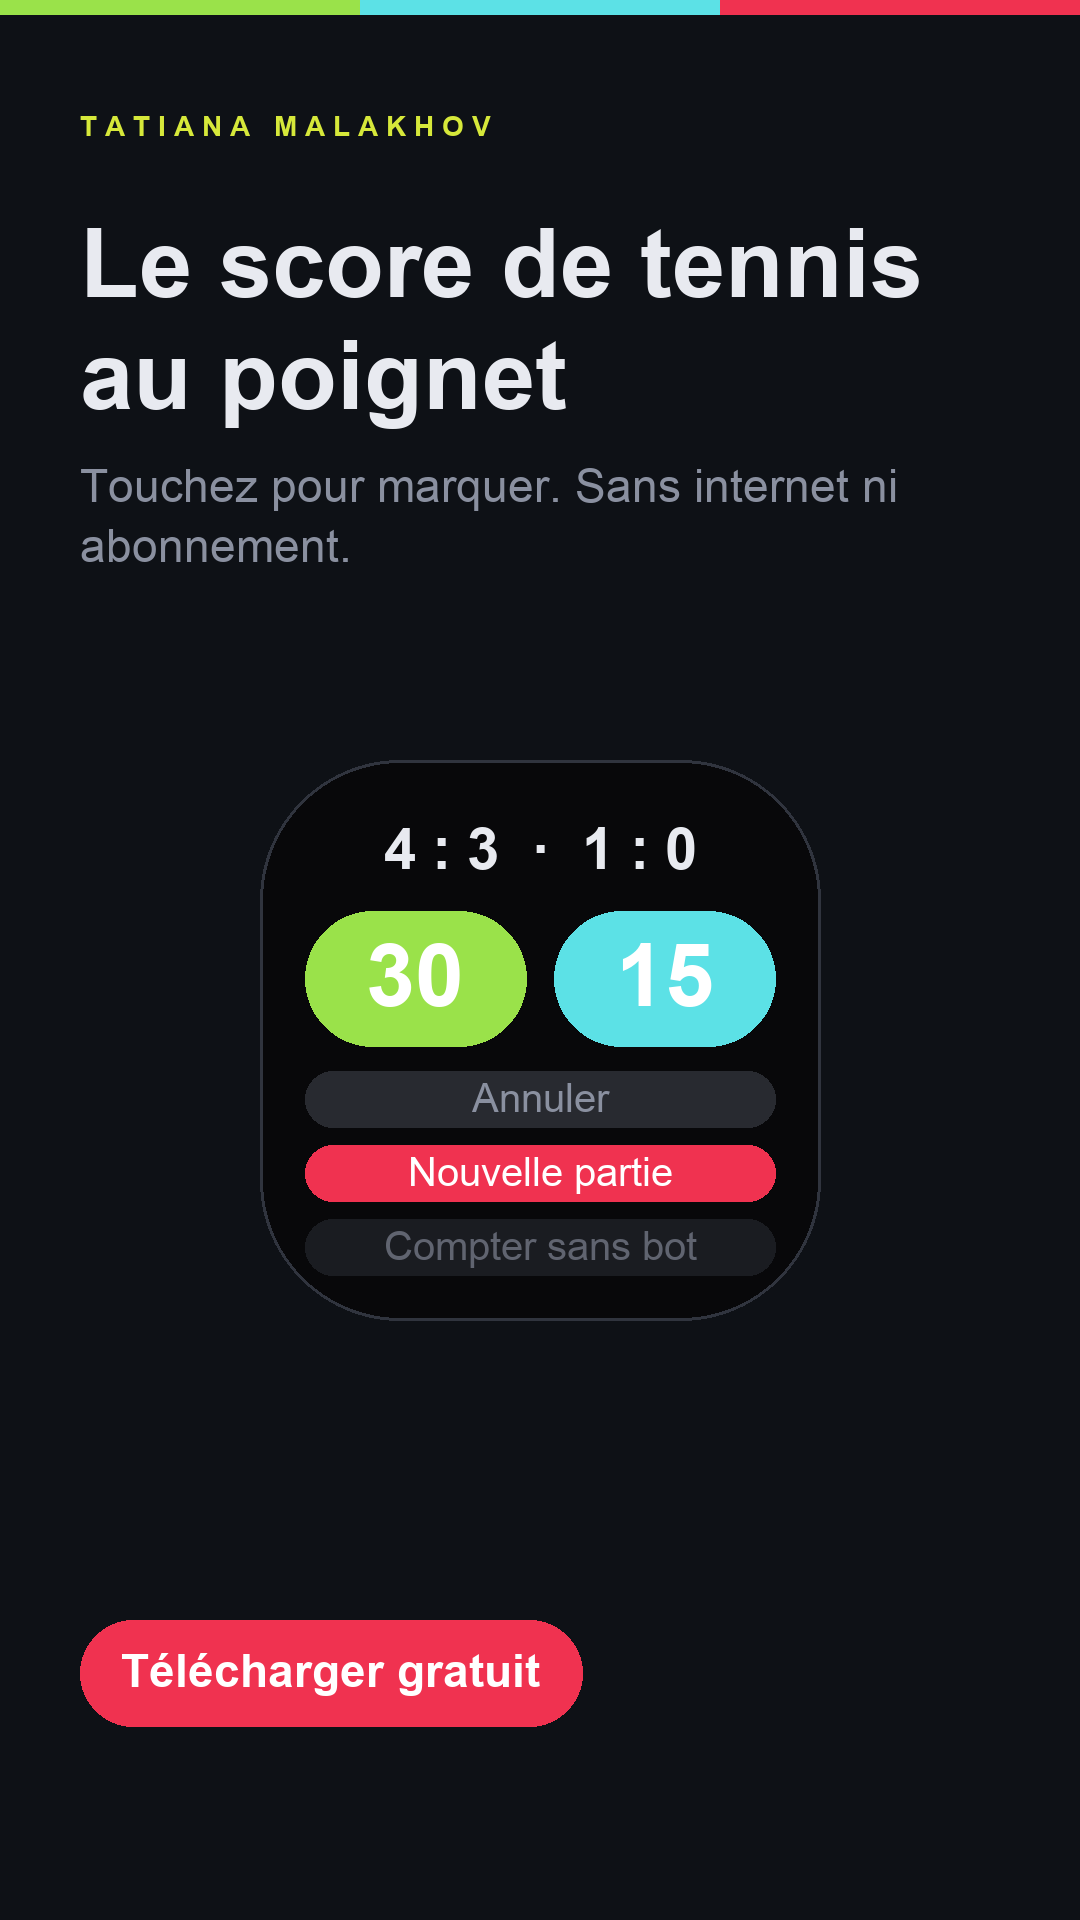
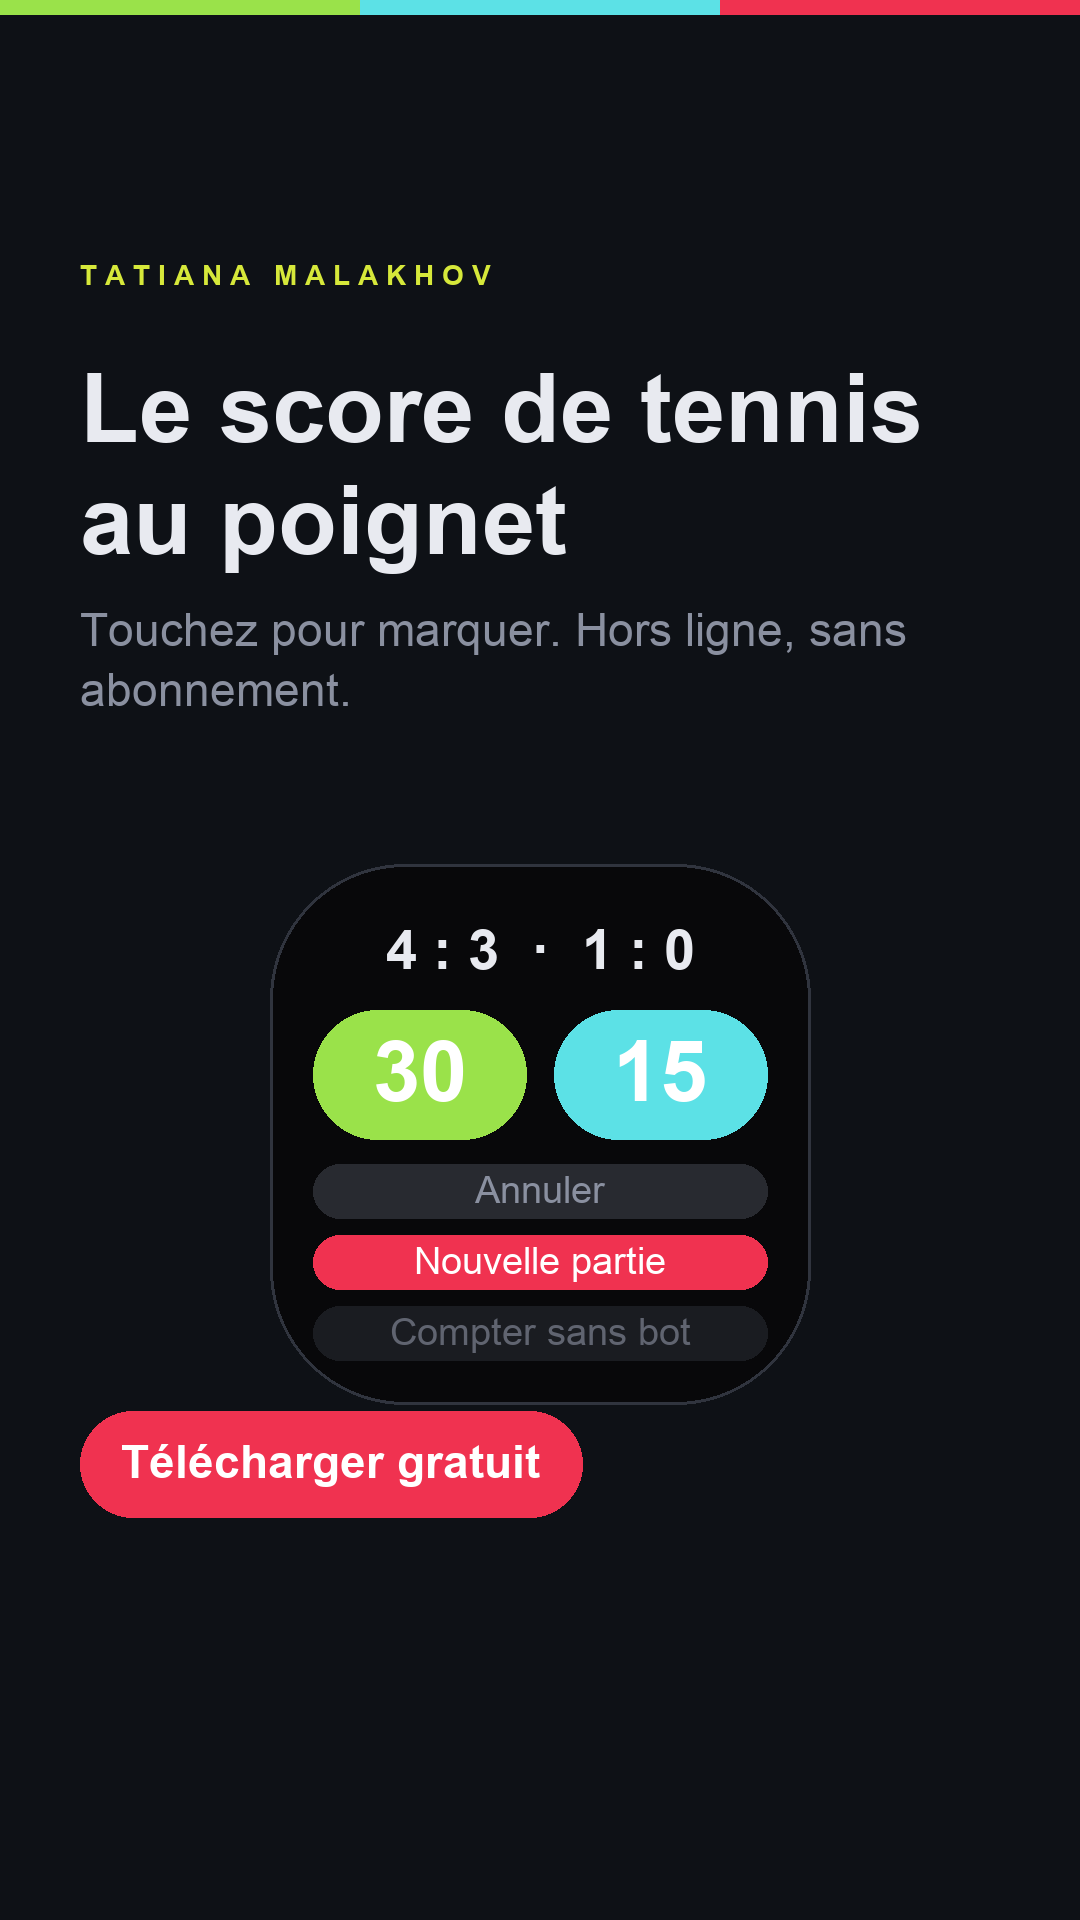
Истории: содержимое между полосами интерфейса Telegram
Сверху Telegram рисует аватар, имя и время, снизу — поле ответа и
вложенную ссылку. Подпись автора и кнопка попадали ровно в эти полосы,
то есть читатель их не видел вовсе.

Теперь всё живёт между ними: подпись опущена, призыв поднят.

diff --git a/tools/make_card.py b/tools/make_card.py
@@ -39,8 +39,12 @@ SHAPES = {
 TALL = {
     "feed": {"sign": 0.055, "title": 0.105, "watch": 0.44,
              "size": 0.46, "cta": 0.855},
-    "story": {"sign": 0.058, "title": 0.110, "watch": 0.46,
-              "size": 0.52, "cta": 0.845},
+    # История: сверху Telegram рисует аватар, имя и время, снизу — поле
+    # ответа и вложенную ссылку. Всё, что попадёт в эти полосы, читатель
+    # не увидит вовсе. Поэтому содержимое живёт между ними, а не по
+    # краям картинки.
+    "story": {"sign": 0.135, "title": 0.185, "watch": 0.45,
+              "size": 0.50, "cta": 0.735},
 }
 SIZE = SHAPES["post"]
 
